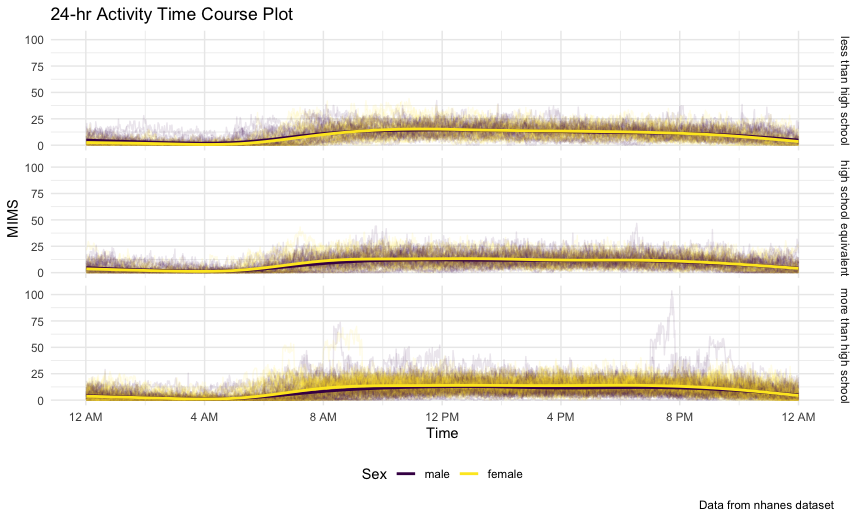
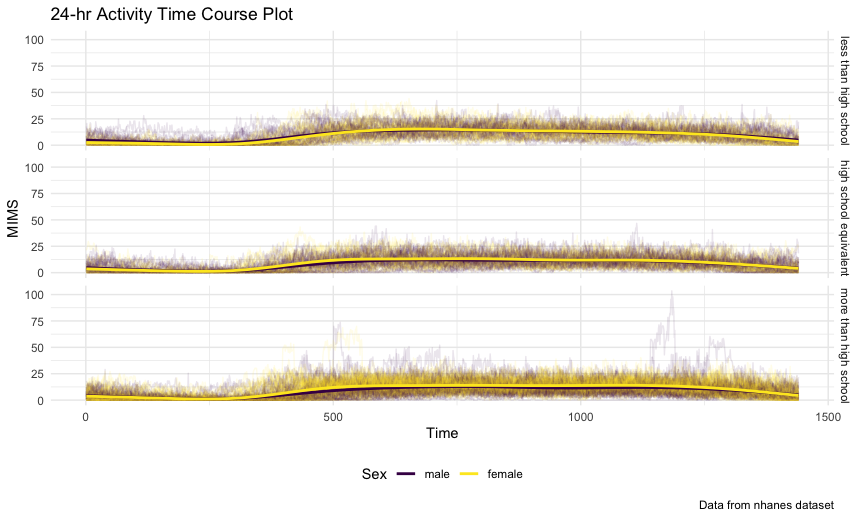
fixed participant counts in sex x education table; began revising problem 2 plots and comments

diff --git a/p8105_hw3_stt2133.md b/p8105_hw3_stt2133.md
@@ -160,9 +160,7 @@ conversion to mm approach alluded to earlier.
 
 # Problem 2: MIMS
 
-## 2.1. `mims` Data Wrangling
-
-### 2.1.1. Load and tidy `mims_demos` & `mims_accel`
+## 2.1. Load, tidy, merge into `mims`
 
 ``` r
 mims_demos = 
@@ -170,6 +168,8 @@ mims_demos =
            skip = 4,
            na = c("NA")) |>
   janitor::clean_names() |>
+  filter(age >= 21) |>
+  drop_na() |>
   mutate(
     seqn = as.character(seqn),
     sex = case_match(sex, 
@@ -193,102 +193,77 @@ mims_accel =
   mutate(seqn = as.character(seqn)) |>
   pivot_longer(
     min1:min1440,
-    names_to = "min", 
+    names_to = "minute", 
     names_prefix = "min",
-    values_to = "mims")
-```
+    values_to = "mims"
+    ) |>
+  mutate(minute = as.integer(minute))
 
-### 2.1.2 Merge `mims_demos` & `mims_accel` into `mims`
-
-``` r
 mims = left_join(mims_demos, mims_accel, by = "seqn") |>
-       select(seqn, min, mims, everything()) |>
-       filter(age > 20 & !is.na(sex) & !is.na(age) & 
-              !is.na(bmi) & !is.na(education))
+       select(seqn, minute, mims, everything())
 ```
 
 ## 2.2. `mims` Data Visualization
 
 ### 2.2.1. Frequency by `sex` & `education`
 
-#### 2.2.1.1. Table
-
 ``` r
 mims |> 
-  group_by(education, sex) |>
-  summarise(count = n()) |>
-  knitr::kable(digits = 2)
+  distinct(seqn, sex, education) |>
+  count(education, sex) |>
+  pivot_wider(
+    names_from = sex,
+    values_from = n
+  ) |>
+  knitr::kable()
 ```
 
-| education              | sex    | count |
-|:-----------------------|:-------|------:|
-| less than high school  | male   | 38880 |
-| less than high school  | female | 40320 |
-| high school equivalent | male   | 50400 |
-| high school equivalent | female | 33120 |
-| more than high school  | male   | 80640 |
-| more than high school  | female | 84960 |
+| education              | male | female |
+|:-----------------------|-----:|-------:|
+| less than high school  |   27 |     28 |
+| high school equivalent |   35 |     23 |
+| more than high school  |   56 |     59 |
 
-#### 2.2.1.2. Comments
-
-Based on the frequency table, the combination of `more than high school`
-and `female` represents the most highest frequency in the `mims` dataset
-with `84960` observations, closely followed by the combination of
-`more than high school` and `male` with `80640` observations. The least
-frequent combinations of `education` and `sex` was
-`high school equivalent` and `female` with 33120 observations and
-`less than high school` and `male` with 38880 observations.
+Based on the frequency table, the largest `education` group is more than
+high school, with similar numbers of males and females. The less than
+high school `education` group is similarly fairly balanced between males
+and females but there is a slightly larger discrepancy. The high school
+equivalent `education` group is the least balanced, with noticeably more
+men than women.
 
 ### 2.2.2. Distribution of `age` by `sex` & `education`
-
-#### 2.2.2.1. Density Plot
 
 ``` r
 mims |> 
   ggplot(aes(x = age, fill = sex)) + 
-  geom_density(alpha = .4, adjust = .5, color = "blue") +
+  geom_density(alpha = .4, color = "blue") +
   facet_grid(education ~ .) +
   labs(
     title = "Distribution of Age for Men and Women by Education",
     x = "Age",
     y = "Density",
-    caption = "Data from nhanes dataset")
+    fill = "Sex",
+    caption = "Data from NHANES")
 ```
 
 <img src="p8105_hw3_stt2133_files/figure-gfm/mims-age-dens-1.png" alt="" width="90%" />
 
-#### 2.2.2.2. Comments
-
 Based on the **Distribution of Age for Men and Women by Education**
-density plots, observations associated with individuals with
-`more than high school` education were more frequently younger than
-older. Among observations associated with females with a
-`more than high school` education, they were most frequently
-approximately 30 years old, while males with `more than high school`
-education, they were most frequently approximately 21-22 years old.
-Among observations associated with males with a `high school equivalent`
-education, the density plot indicates a bimodal distribution, with
-highest frequencies at opposite end of the `age` spectrum, around 21-22
-years old (similarly to male observations with a `more than high school`
-education) and 80 years old. Among `less than high school` observations,
-there appears to be a contrasting distribution compared to the one
-previously described in regard to `more than high school` education
-observation. Specifically, those observations tended to associated with
-older individuals. Within the `less than high school` education stratum,
-female observations were comparatively older with modes at 68 years old
-and 80 years old. Conversely with that same stratum, male observations
-had several modes, most noticable at 43, 67, and 79 years old.
+density plots, participants with more than high school `education` tend
+to be younger, and women in this group are especially concentrated in
+their 30s. Participants with less than high school `education` tend to
+be older, and the `age` distributions of men and women in this group are
+similar. In the high school equivalent `education` group, men are spread
+fairly evenly across ages, while women are concentrated at older ages.
 
 ## 2.3. Total Activity
-
-### 2.3.1. Aggregate `mims` and Plot `total_mims` by `age`
 
 ``` r
 mims |>
   group_by(seqn, sex, age, education) |>
   summarize(total_mims = sum(mims)) |>
   ggplot(aes(x = age, y = total_mims, color = sex)) +
-  geom_point() +
+  geom_point(alpha = .6) +
   geom_smooth(se = FALSE) +
   facet_grid(education ~ .) +
   labs(
@@ -299,8 +274,6 @@ mims |>
 ```
 
 <img src="p8105_hw3_stt2133_files/figure-gfm/mims-total-scatt-1.png" alt="" width="90%" />
-
-### 2.3.2. Comments
 
 Based on the **Scatterplot of Total Activity by Age**, we can appreciate
 potential differencea in total activity (`total_mims`) across the `age`
@@ -323,8 +296,7 @@ especially those that were younger in `age`.
 
 ``` r
 mims |> 
-  mutate(min = as.numeric(min)) |>
-  ggplot(aes(x = min, y = mims, color = sex)) +
+  ggplot(aes(x = minute, y = mims, color = sex)) +
   geom_line(aes(group = seqn), alpha = 0.1) +
   geom_smooth(aes(group = sex), size = 1, se = FALSE) +
   facet_grid(education ~ .) +                  
@@ -333,10 +305,7 @@ mims |>
     x = "Time",
     y = "MIMS",
     color = "Sex",
-    caption = "Data from nhanes dataset") +
-  scale_x_continuous(
-    breaks = c(0,   240,    480,    720,    960,    1200,   1440), 
-    labels = c("12 AM", "4 AM", "8 AM", "12 PM",    "4 PM", "8 PM", "12 AM"))
+    caption = "Data from nhanes dataset")
 ## Warning: Using `size` aesthetic for lines was deprecated in ggplot2 3.4.0.
 ## ℹ Please use `linewidth` instead.
 ## This warning is displayed once per session.
